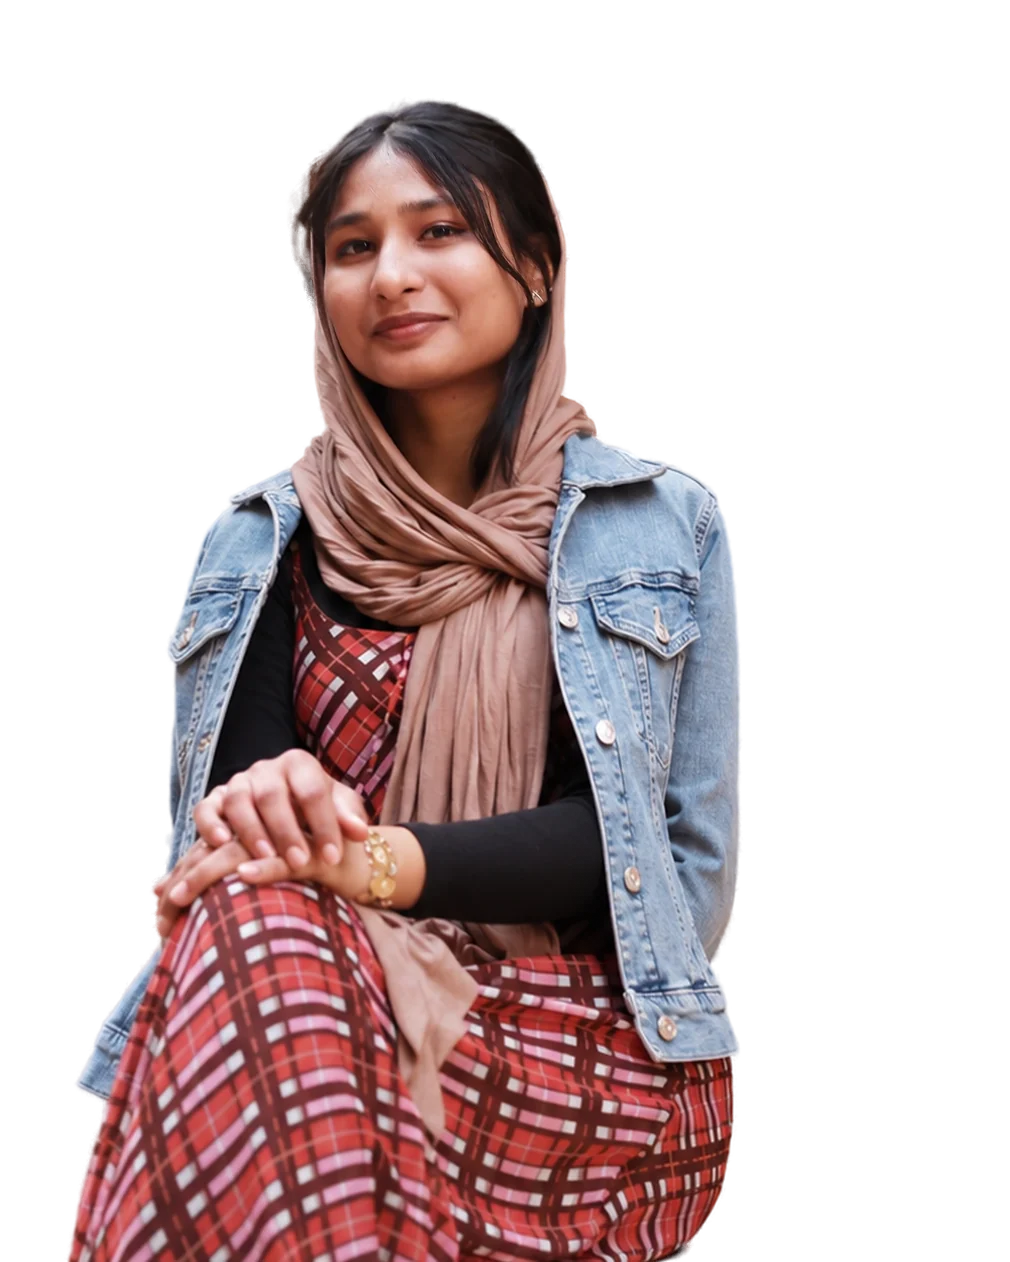
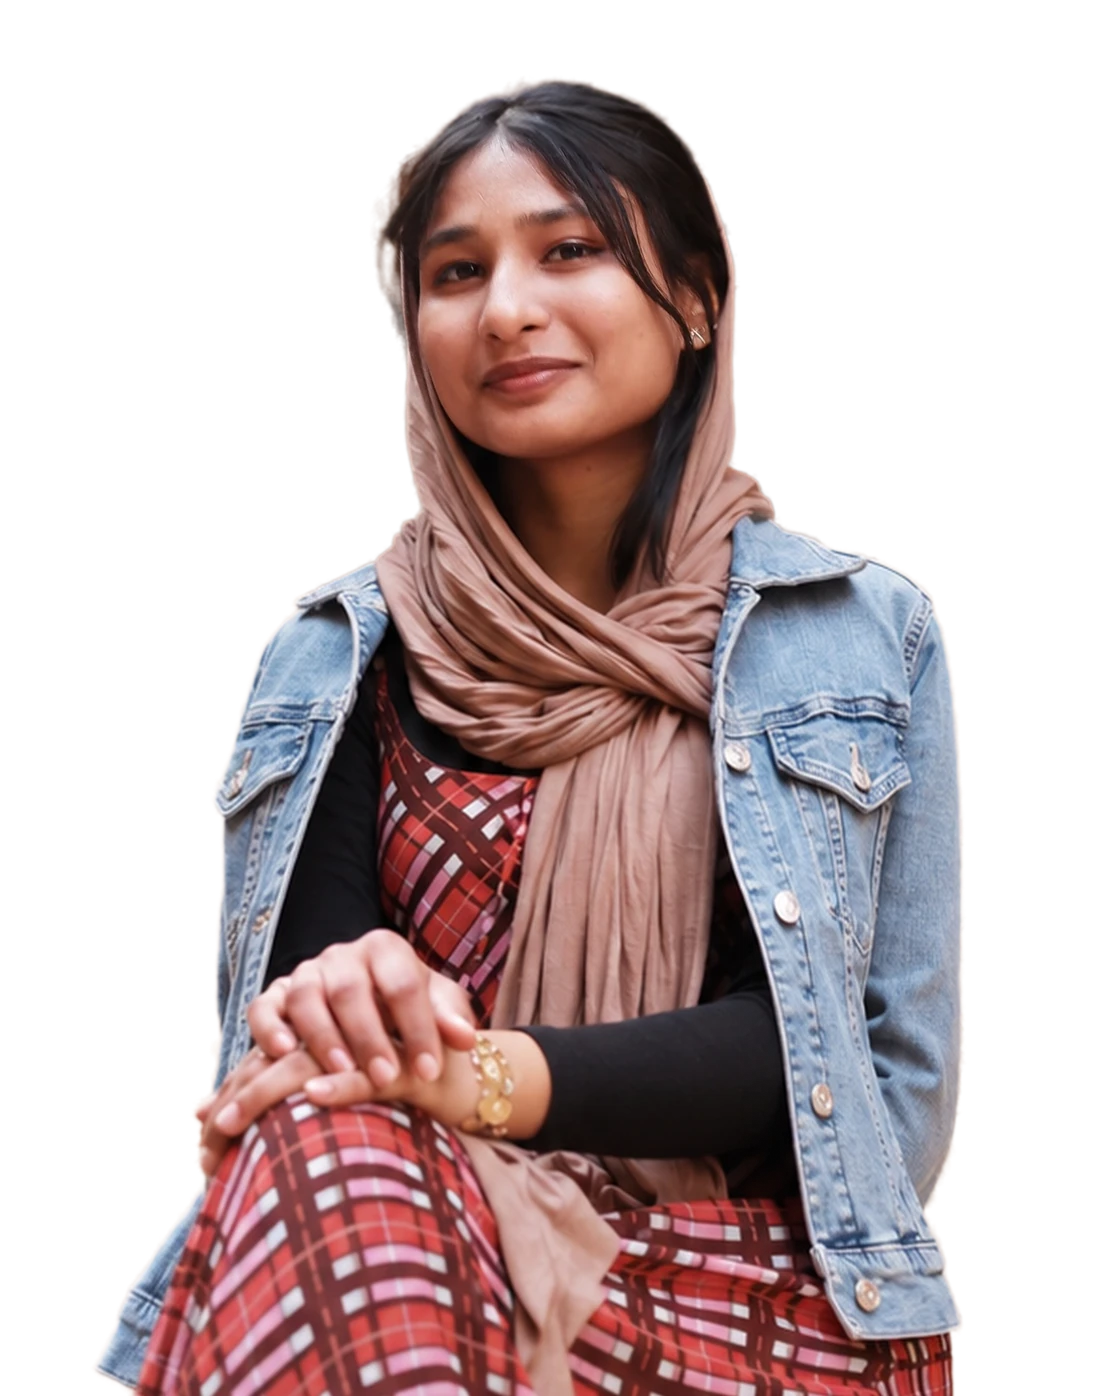
Hero portrait framed head to hands, sharper cutout

diff --git a/index.html b/index.html
@@ -42,7 +42,7 @@ h1 em{font-style:normal;color:var(--tan);display:block}
 .btn i,.lnk i{font-style:normal;display:inline-block;transition:transform .25s}.btn:hover i,.lnk:hover i{transform:translate(2px,-2px)}
 .note{font-size:11px;color:var(--mut);margin:14px 0 0;letter-spacing:.06em}
 .avatar{position:relative;aspect-ratio:4/5;max-width:500px;margin-left:auto;width:100%;border:0;padding:0}
-.avatar div{width:100%;height:100%;background:radial-gradient(65% 55% at 50% 42%,#3d2113,transparent 78%);display:grid;place-items:center;position:relative;overflow:hidden;}.avatar div::after{content:"";position:absolute;left:0;right:0;bottom:0;height:34%;background:linear-gradient(transparent,var(--bg));z-index:1}.avatar .tagline,.avatar small{z-index:2}.avatar img{position:absolute;inset:0;width:100%;height:100%;object-fit:cover;object-position:50% 100%;display:block;filter:saturate(.95) contrast(1.02)}.avatar .tagline{text-shadow:0 2px 24px #000a}.avatar div::after{height:42%;background:linear-gradient(transparent,#0a0706cc 65%,var(--bg))}
+.avatar div{width:100%;height:100%;background:radial-gradient(65% 55% at 50% 42%,#3d2113,transparent 78%);display:grid;place-items:center;position:relative;overflow:hidden;}.avatar div::after{content:"";position:absolute;left:0;right:0;bottom:0;height:34%;background:linear-gradient(transparent,var(--bg));z-index:1}.avatar .tagline,.avatar small{z-index:2}.avatar img{position:absolute;inset:0;width:100%;height:100%;object-fit:cover;object-position:50% 50%;display:block;filter:saturate(.95) contrast(1.02)}.avatar .tagline{text-shadow:0 2px 24px #000a}.avatar div::after{height:42%;background:linear-gradient(transparent,#0a0706cc 65%,var(--bg))}
 .avatar span{font:italic 500 clamp(110px,13vw,170px) "Cormorant Garamond",serif;color:var(--tan);line-height:1}
 .avatar small{position:absolute;bottom:16px;left:0;right:0;text-align:center;color:var(--mut);font-size:10px;letter-spacing:.22em}
 .facts{display:grid;grid-template-columns:repeat(4,1fr);margin-top:80px;border-top:1px solid var(--line)}
@@ -117,7 +117,7 @@ footer{padding:30px 0 44px;color:var(--mut);font-size:12px;letter-spacing:.08em;
 .avatar small{bottom:16px}
 .hero .role{order:5}.hero .sub{order:6}.hero .btns{order:7;width:100%}.hero .note{order:8}
 }
-.avatar img{transform:scale(1.14);transform-origin:50% 12%}.avatar div::after{height:26%}</style></head><body>
+.avatar div::after{height:12%}</style></head><body>
 <div class="prog" id="pg" aria-hidden="true"></div><nav class="bar"><div class="w"><a class="logo" href="#top"><b>L</b>Laya Khathoon</a>
 <button class="burger" aria-label="Menu" aria-expanded="false" id="bg">&#9776;</button>
 <div class="menu" id="mn"><a href="#work">Work</a><a href="#hackathons">Hackathons</a><a href="#skills">Skills</a><a href="#about">About</a><a href="#connect">Contact</a></div></div></nav>
